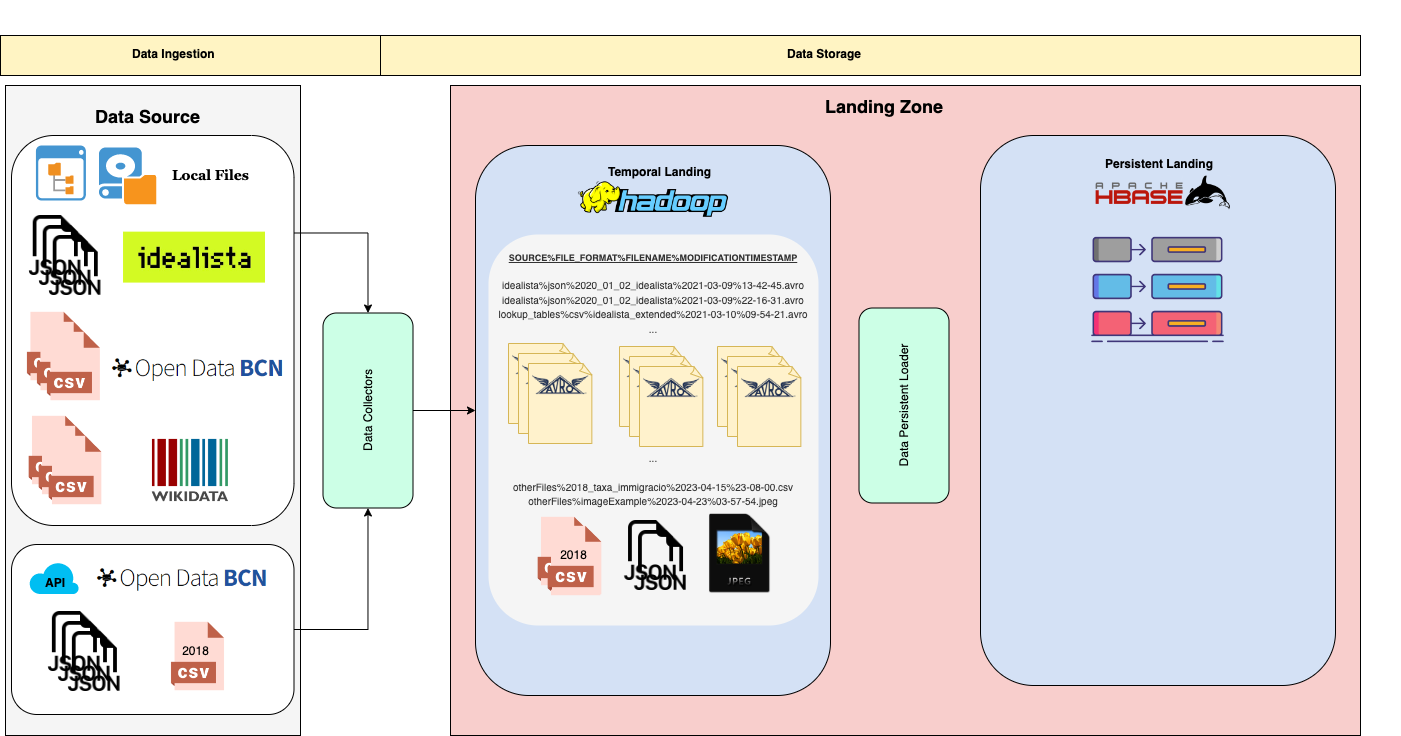
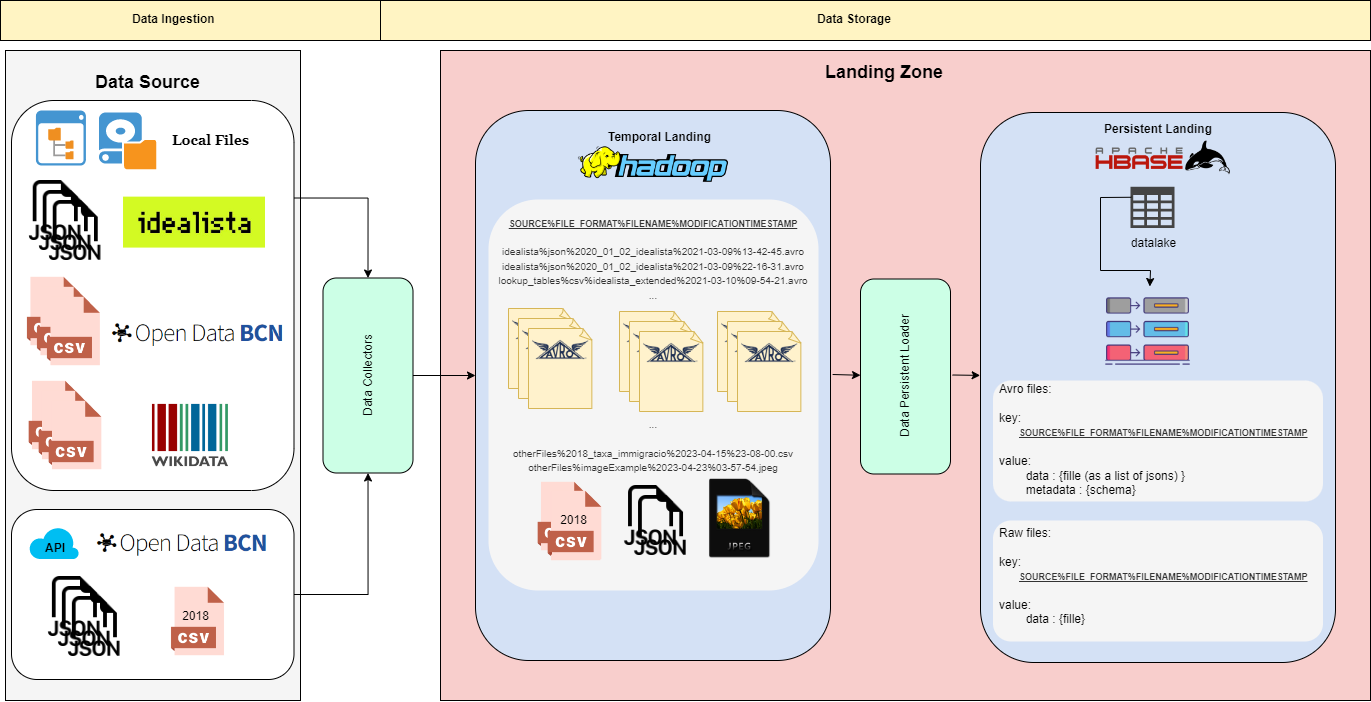
final settings

diff --git a/persistentLanding.py b/persistentLanding.py
@@ -48,15 +48,17 @@ def read_avro_and_insert_hbase(client, table, path):
 
 def read_raw_and_insert_hbase(client, table, path):
     # generate key
-    info = path.split("/")
-    info_list = info[-1].split('%')
-    source = info[-2]
-    if 'rawFiles' in source:
-        return
-    full_fn = info_list[-1].split('.')
-    file_name = full_fn[0]
-    ext = full_fn[1]
-    row_key = '$'.join([source, ext, file_name])
+    info_list = path.split('.')[0].split("/")[-1].split("%")
+    source = info_list[0]
+    ext = path.split('.')[-1]
+    file_name = info_list[1]
+    if len(info_list) < 4:
+        # For the API data
+        now = datetime.now()
+        vtime = now.strftime("%Y-%m-%dT%H-%M-%S")
+    else:
+        vtime = f"{info_list[2]}T{info_list[3]}"
+    row_key = '$'.join([source, ext, file_name, vtime])
     with client.read(path) as f:
         file_contents = f.read()
         # get value
@@ -117,6 +119,8 @@ if __name__ == '__main__':
     # Load tables from temporal to persistent landing
     create_table_if_not_exists(connection, tablename)
     table = connection.table(tablename)
+
+    # # Read and insert the files
     read_hdfs_and_insert_hbase(client, table, hdfs_path)
 
     # # Print table content

diff --git a/README.md b/README.md
@@ -3,7 +3,7 @@
 <p align="center"><img src="./pipeline.png" alt="Pipeline image" title="Pipeline image"/></p>
 <p align="center"><em>Pipeline diagram we implemented</em></p>
 
-## Temporal landing zone
+## Temporal Landing Zone
 The pipeline our data follows when is added into the temporal landing zone is the following one:
 
 Data Collectors:
@@ -82,7 +82,78 @@ able to save different versions of the files by adding their modification timest
    (i.e., at the same second) in different servers, only the first version to be loaded in HDFS will be kept.
 
 ## Persistent Landing Zone
-AQUI LO TUYO BRO <3
+#### Main structure
+- The data would be stored in one big table called `datalake`, and would store each file as a table entry (row)
+- Justification
+  - Because of the flexibility that HBase gives, there was no need to have more than one table, and also all of the files would be easily accessible because of how the key is defined
+#### Key design:
+- Format: 
+  `source$fileFormat$orginalFilename$modificationTimeStamp`
+- Example: `opendatabcn-income$csv$2016_Distribucio_territorial_renda_familiar$2021-03-10T09-54-21`
+- Justification:
+  - It was needed to track the ingested files easily by their data source, so it is specified, the version of the file, that can be done using the filename and by the different modification times the different versions can be checked, and we also considered important to be able to track by the file format to maybe in the next zones separate files by this criteria, this can be useful for example to apply different preprocessing to each file type
+  - Modification time was considered as an alternative of registering the loading time to avoid the creation of a hotspot in this region
+
+#### Families structure:
+- There are two column families defined:
+  - `data`: contains the file
+  - `metadata`: contains the file information, in this case it would contain the file schema
+
+#### Data Persistent Loader:
+The pipeline it follows is:
+
+1. Connects to the HDFS server, using the hdfs python library, and sets the source path route as  `/user/bdm/Temporal_LZ`, so everything in that file would be loaded
+2. Connects to the HBase server, using the happybase python library
+
+    **_NOTE:_** to be able to connect to the HBase server it was needed to have the database started:
+    ```shell 
+   /BDM_Software/hbase/bin/start-hbase.sh 
+   ```
+    And then execute the following command, to start the thrift server daemon and be able to connect to it:
+    ```shell
+   /hbase-daemon.sh start thrift
+   ```
+3. In the HBase connection it checks if the table with the name defined in the `config.cfg` file (in this case `datalake`) exists, and if not, it creates it, defining two column families, `data` and `metadata`.
+4. The Data Persistent Loader reads each file stored on the temporal zone, to do this first it analyzes the file extension and it has two choices:
+
+   1. For Avro files:
+      1. Generates the key using the file name: `source$fileFormat$orginalFilename$modificationTimeStamp```
+      2. Read the avro file, creates a dictionary for the entry value, where it saves the file content as a list of jsons and the file schema
+
+            **_NOTES:_**  
+         - The file content is saved as a list of jsons to facilitate its encoding to be able to be inserted into the HBase table
+         - The key of each part of the value content has to contain the column family where it belongs, for the file content it has to be in the data cf, so it would be `data:file`, and for the schema it would be `metadata:schema`, leaving the json like this:
+         ```json lines
+             {"data:file" : {...}, "metadata:schema": {...}}
+         ```
+
+      3. Creates a dictionary, using the generated key and the dictionary of the entry value, and inserts it into the HBase table
+      
+            **_NOTE:_** Each entry of the HBase table corresponds to a file, and would look like this:
+            ```json lines
+            {"source$fileFormat$orginalFilename$modificationTimeStamp" : {"data:file" : {...}, "metadata:schema": {...}} }
+         ```
+   2. For raw files (any other extension different from avro):
+      1. Generates the key using the file name: `source$fileFormat$orginalFilename$modificationTimeStamp`
+      2. Creates a dictionary for the entry value, opens the file contents and saves it with no modification in the dictionary
+         
+           **_NOTES:_** 
+         
+         - Thinking in a real life case, there is no method that guarantees a correct extraction of the schema from any file, since sometimes this will not be explicit in the file, so for the raw files it would not be saved, leaving the json like this:
+         ```json lines
+             {"data:file" : {...} }
+         ```
+         - Here it can be seen the usefulness of the key-value storage because of its versatility, the two types of entries seen would be inserted to the same table
+      3. Creates a dictionary, using the generated key and the dictionary of the entry value, and inserts it into the HBase table
+
+         **_NOTE:_** Each entry of the HBase table corresponds to a file, and would look like this:
+         ```json lines
+            {"source$fileFormat$orginalFilename$modificationTimeStamp" : {"data:file" : {...}} }
+         ```
+5. Everytime this pipeline is executed new data would be inserted and the repeated one would be overwritten, because the HBase system would check it using the generated key, and as we use modification time and no loading time there would not be duplicated data, but version control is handled
+
+    **_NOTE:_**  Also in a real life situation the Temporal Landing would be purged from time to time, so there would not be many cases that the data could be repeated
+
 
 # How to run the code
 To load both the temporal and persistent landing zones with the data, you just need to run [run.sh](run.sh). 
@@ -91,6 +162,12 @@ This script basically runs [temporalLanding.py](temporalLanding.py) which is in 
 [persistentLanding.py](persistentLanding.py), which loads data in the persistent landing zone. 
 The script tries to upload preferable Avro files in HDFS. In case it is not possible due to any reason (mainly because of a lack of a predefined schema), it loads the files in raw format.
     
+### Configurations:
+The project contains a [config.cfg](src%2Futils%2Fconfig.cfg) file, where important constants are set:
+- The VM server information
+- The path of the zones
+- Configuration names, such as table names
+
 **_NOTE:_** If you need to install some modules you can run the `pip install -r requirements.txt` command on top of [run.sh](run.sh) script. 
 If you do not want to load Avro files but only the raw data, you can uncomment `UPLOAD RAW FILES TO HDFS` section in [run.sh](run.sh) and comment the `CREATE AND UPLOAD AVRO FILES` section.
 
@@ -167,7 +244,11 @@ python temporalLanding.py read avro -r <localAvroFilePath>
 python temporalLanding.py read parquet -r <localParquetFilePath>
 ```
 ## How to run [persistentLanding.py](persistentLanding.py)
-NO SE SI TENDRAS ALGO PARA PONER AQUI, SINO PON ALGO SIMLPE QUE SE EJECUTA POR SI SOLO.
+The Data Persistent Loader code reads each file stored on the temporal zone, on the defined route, and loads it all to 
+the persistent landing zone, so there are no major settings to do, so the file does not require parameters, and can 
+be executed like this:
 
-
+```{bash}
+python persistentLanding.py
+```
 
